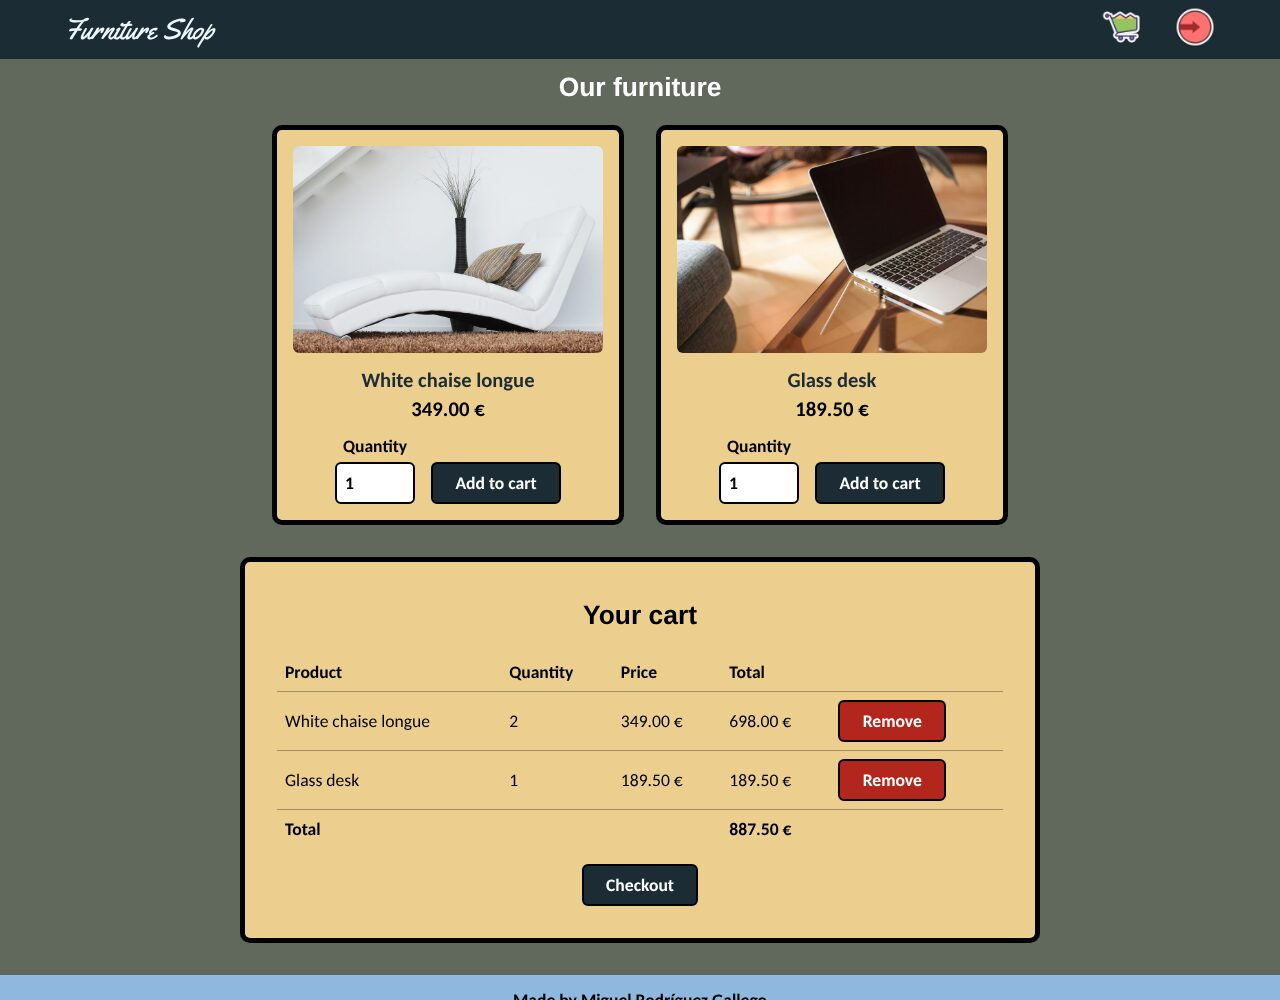
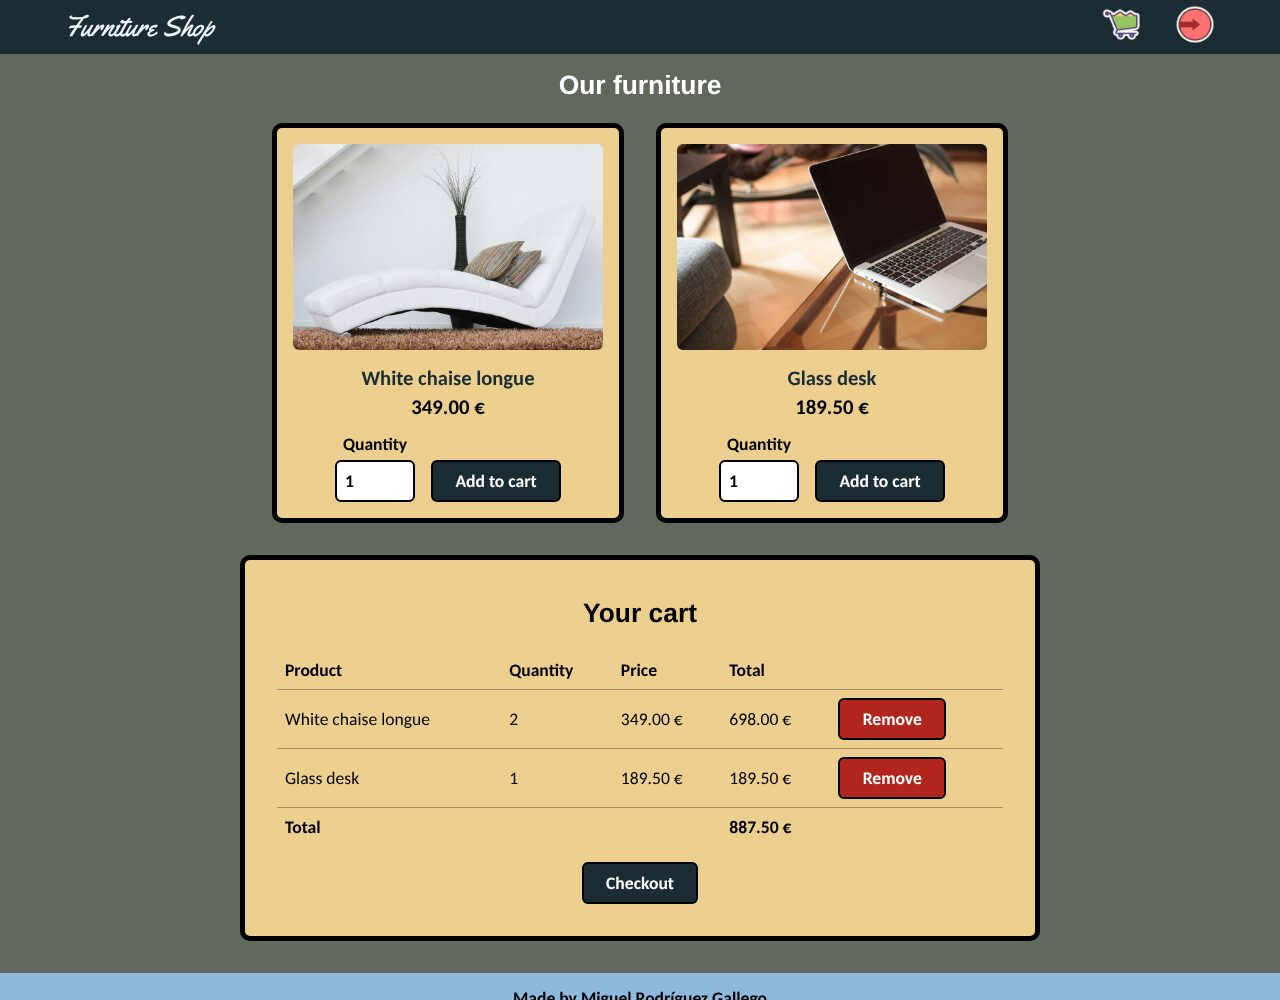
Full-screen entrance with the title centred; login form on the entrance; notices as toasts
After a cart change the page returns to the product list or the cart instead of the top.

diff --git a/furniture-shop/public/css/shop.css b/furniture-shop/public/css/shop.css
@@ -10,6 +10,7 @@
 }
 
 :root {
+    --bar: 3.4rem; /* height of the top bar */
     --olive: #60695c;
     --navy: #1c2c34;
     --sand: #ecce8e;
@@ -24,8 +25,8 @@
 
 html {
     scroll-behavior: smooth;
-    /* Keeps content that the page scrolls to from hiding under the fixed top bar. */
-    scroll-padding-top: 4.5rem;
+    /* Keeps content that the page scrolls to from hiding under the top bar. */
+    scroll-padding-top: calc(var(--bar) + 1rem);
 }
 
 body {
@@ -41,8 +42,18 @@ body {
 }
 
 @keyframes title-in {
-    from { opacity: 0; transform: translateX(-10%); }
+    from { opacity: 0; transform: translateY(1.5rem); }
     to   { opacity: 1; transform: none; }
+}
+
+@keyframes bounce {
+    0%, 100% { transform: translateY(0); }
+    50%      { transform: translateY(0.5rem); }
+}
+
+@keyframes toast {
+    0%, 85% { opacity: 1; }
+    100%    { opacity: 0; visibility: hidden; }
 }
 
 /* Top bar: sticks to the top while scrolling, without covering the page's picture. */
@@ -58,7 +69,8 @@ nav {
     display: flex;
     align-items: center;
     justify-content: space-between;
-    padding: 0.4rem 5vw;
+    height: var(--bar);
+    padding: 0 5vw;
 }
 
 .brand {
@@ -96,29 +108,68 @@ nav button {
     cursor: pointer;
 }
 
-/* Full-width picture with the page title; the whole photo is shown, never cropped. */
+/* Entrance: the photo fills the first screen and the title sits in the middle. */
 .hero {
     position: relative;
+    isolation: isolate;
+    display: flex;
+    flex-direction: column;
+    align-items: center;
+    justify-content: center;
+    gap: 2rem;
+    min-height: calc(100svh - var(--bar));
+    padding: 3rem 1rem 5rem;
 }
 
-.hero img {
-    display: block;
+.hero > img {
+    position: absolute;
+    inset: 0;
+    z-index: -1;
     width: 100%;
-    height: auto;
+    height: 100%;
+    object-fit: cover;
+}
+
+/* Darkens the photo slightly so the title is always readable. */
+.hero::before {
+    content: "";
+    position: absolute;
+    inset: 0;
+    z-index: -1;
+    background: rgb(0 0 0 / 0.25);
 }
 
 h1 {
-    position: absolute;
-    left: 10%;
-    bottom: 10%;
     margin: 0;
     font-family: "Yellowtail", cursive;
     font-weight: 400;
-    font-size: clamp(2.5rem, 1rem + 6vw, 7rem);
+    font-size: clamp(3rem, 1rem + 7vw, 8rem);
+    line-height: 1.1;
+    text-align: center;
     color: var(--foam);
     text-decoration: underline;
-    text-shadow: 0.3vw 0.3vw 0.3vw black;
-    animation: title-in 2s;
+    text-decoration-thickness: 0.05em;
+    text-underline-offset: 0.12em;
+    text-shadow: 0.04em 0.04em 0.06em black;
+    animation: title-in 1.2s ease-out;
+}
+
+.scroll-hint {
+    position: absolute;
+    bottom: 1.5rem;
+    left: 50%;
+    width: 3rem;
+    height: 3rem;
+    margin-left: -1.5rem;
+    color: var(--foam);
+    filter: drop-shadow(0 0 4px black);
+    animation: bounce 1.6s ease-in-out infinite;
+}
+
+.scroll-hint svg {
+    display: block;
+    width: 100%;
+    height: 100%;
 }
 
 h2 {
@@ -132,14 +183,13 @@ h2 {
     background-color: var(--sand);
 }
 
-/* Login and sign-up form, overlapping the picture */
+/* Login and sign-up form, under the title on the entrance */
 .credentials {
-    position: relative;
     display: grid;
     gap: 1rem;
     width: min(26rem, 90vw);
-    margin: -8rem auto 1rem;
     padding: 2rem;
+    animation: title-in 1.2s ease-out;
 }
 
 label {
@@ -185,19 +235,27 @@ button.danger {
 }
 
 .notice {
-    width: min(40rem, 90vw);
-    margin: 1rem auto;
+    position: fixed;
+    top: calc(var(--bar) + 1rem);
+    left: 50%;
+    z-index: 50;
+    width: min(30rem, 90vw);
+    margin: 0;
     padding: 0.7rem;
+    transform: translateX(-50%);
+    border: 2px solid black;
     border-radius: 6px;
     background-color: var(--foam);
+    box-shadow: 0 4px 12px rgb(0 0 0 / 0.3);
     text-align: center;
     font-weight: bold;
+    pointer-events: none;
+    animation: toast 4s forwards; /* fades away by itself */
 }
 
 .switch {
-    margin: 0 0 2rem;
+    margin: 0;
     text-align: center;
-    color: white;
 }
 
 .switch a,
@@ -309,11 +367,16 @@ footer strong {
     font-style: normal;
 }
 
-@media (max-width: 600px) {
-    .credentials {
-        margin-top: 1rem;
+@media (prefers-reduced-motion: reduce) {
+    header,
+    h1,
+    .credentials,
+    .scroll-hint {
+        animation: none;
     }
+}
 
+@media (max-width: 600px) {
     .order {
         padding: 1rem;
         overflow-x: auto;

diff --git a/furniture-shop/src/layout.php b/furniture-shop/src/layout.php
@@ -2,8 +2,14 @@
 
 declare(strict_types=1);
 
-/** Opens the page: <head>, the top bar and a full-width picture with the page title on it. */
-function page_start(string $title, string $heroImage): void
+/**
+ * Opens the page: <head>, the top bar and the entrance, a picture that fills the first screen
+ * with the page title in the middle.
+ *
+ * @param callable|null $heroContent prints more content centred under the title (the login form)
+ * @param string|null   $next        id of the section the "scroll down" arrow leads to
+ */
+function page_start(string $title, string $heroImage, ?callable $heroContent = null, ?string $next = null): void
 {
     $loggedIn = current_user_id() !== null;
     ?>
@@ -39,8 +45,16 @@ function page_start(string $title, string $heroImage): void
 
     <main>
         <div class="hero">
-            <h1><?= e($title) ?></h1>
             <img src="images/<?= e($heroImage) ?>" alt="" width="1600" height="1067">
+            <h1><?= e($title) ?></h1>
+<?php if ($heroContent !== null) {
+        $heroContent();
+    } ?>
+<?php if ($next !== null): ?>
+            <a class="scroll-hint" href="#<?= e($next) ?>" aria-label="Scroll down">
+                <svg viewBox="0 0 24 24" aria-hidden="true"><path d="M5 9l7 7 7-7" fill="none" stroke="currentColor" stroke-width="2.5" stroke-linecap="round" stroke-linejoin="round"/></svg>
+            </a>
+<?php endif ?>
         </div>
 <?php
     $message = flash();
@@ -63,8 +77,12 @@ function page_end(): void
 <?php
 }
 
-/** The email + password form shared by the login and sign-up pages. */
-function credentials_form(string $action, string $button, string $email, ?string $error, string $passwordAutocomplete): void
+/**
+ * The email + password form shared by the login and sign-up pages.
+ *
+ * @param array{0: string, 1: string, 2: string} $switch text, link text and address of the link to the other page
+ */
+function credentials_form(string $action, string $button, string $email, ?string $error, string $passwordAutocomplete, array $switch): void
 {
     ?>
         <form class="card credentials" action="<?= e($action) ?>" method="post">
@@ -80,6 +98,7 @@ function credentials_form(string $action, string $button, string $email, ?string
                     $passwordAutocomplete === 'new-password' ? ' minlength="' . Shop\UserRepository::MIN_PASSWORD_LENGTH . '"' : '' ?>>
             </label>
             <button type="submit"><?= e($button) ?></button>
+            <p class="switch"><?= e($switch[0]) ?> <a href="<?= e($switch[2]) ?>"><?= e($switch[1]) ?></a></p>
         </form>
 <?php
 }

diff --git a/furniture-shop/public/products.php b/furniture-shop/public/products.php
@@ -19,6 +19,7 @@ $catalog = new ProductRepository(db());
 if ($_SERVER['REQUEST_METHOD'] === 'POST') {
     require_valid_post();
     $cart = cart();
+    $back = 'catalog'; // where the page scrolls to after the change
     $productId = int_input($_POST, 'product_id') ?? 0;
 
     try {
@@ -29,8 +30,10 @@ if ($_SERVER['REQUEST_METHOD'] === 'POST') {
                 break;
             case 'remove':
                 $cart->remove($productId);
+                $back = 'cart';
                 break;
             case 'checkout':
+                $back = 'cart';
                 // Prices come from the database here too, never from the form.
                 $orderId = (new OrderRepository(db()))->place($userId, $cart->lines($catalog));
                 save_cart(Cart::fromArray([]));
@@ -44,14 +47,14 @@ if ($_SERVER['REQUEST_METHOD'] === 'POST') {
     }
 
     save_cart($cart);
-    redirect('products.php');
+    redirect('products.php#' . $back);
 }
 
 $lines = cart()->lines($catalog);
 
-page_start('Products', 'products-hero.jpg');
+page_start('Products', 'products-hero.jpg', next: 'catalog');
 ?>
-        <section class="products" aria-labelledby="catalog-title">
+        <section id="catalog" class="products" aria-labelledby="catalog-title">
             <h2 id="catalog-title">Our furniture</h2>
             <ul class="product-grid">
 <?php foreach ($catalog->all() as $product): ?>
@@ -73,7 +76,7 @@ page_start('Products', 'products-hero.jpg');
             </ul>
         </section>
 
-        <section class="card order" aria-labelledby="cart-title">
+        <section id="cart" class="card order" aria-labelledby="cart-title">
             <h2 id="cart-title">Your cart</h2>
 <?php if ($lines === []): ?>
             <p>Your cart is empty.</p>

diff --git a/furniture-shop/public/register.php b/furniture-shop/public/register.php
@@ -29,9 +29,7 @@ if ($_SERVER['REQUEST_METHOD'] === 'POST') {
     }
 }
 
-page_start('Sign up', 'register.jpg');
-credentials_form('register.php', 'Create account', $email, $error, 'new-password');
-?>
-        <p class="switch">Already have an account? <a href="login.php">Log in</a></p>
-<?php
+page_start('Sign up', 'register.jpg', static function () use ($email, $error): void {
+    credentials_form('register.php', 'Create account', $email, $error, 'new-password', ['Already have an account?', 'Log in', 'login.php']);
+});
 page_end();

diff --git a/furniture-shop/public/login.php b/furniture-shop/public/login.php
@@ -28,9 +28,7 @@ if ($_SERVER['REQUEST_METHOD'] === 'POST') {
     http_response_code(401);
 }
 
-page_start('Log in', 'login.jpg');
-credentials_form('login.php', 'Log in', $email, $error, 'current-password');
-?>
-        <p class="switch">New here? <a href="register.php">Create an account</a></p>
-<?php
+page_start('Log in', 'login.jpg', static function () use ($email, $error): void {
+    credentials_form('login.php', 'Log in', $email, $error, 'current-password', ['New here?', 'Create an account', 'register.php']);
+});
 page_end();

diff --git a/furniture-shop/public/thanks.php b/furniture-shop/public/thanks.php
@@ -17,9 +17,9 @@ if ($order === null) {
     http_response_code(404);
 }
 
-page_start('Thanks for buying!', 'thanks.jpg');
+page_start('Thanks for buying!', 'thanks.jpg', next: 'order');
 ?>
-        <section class="card order" aria-labelledby="order-title">
+        <section id="order" class="card order" aria-labelledby="order-title">
 <?php if ($order === null): ?>
             <h2 id="order-title">Order not found</h2>
             <p><a href="products.php">Back to the shop</a></p>
